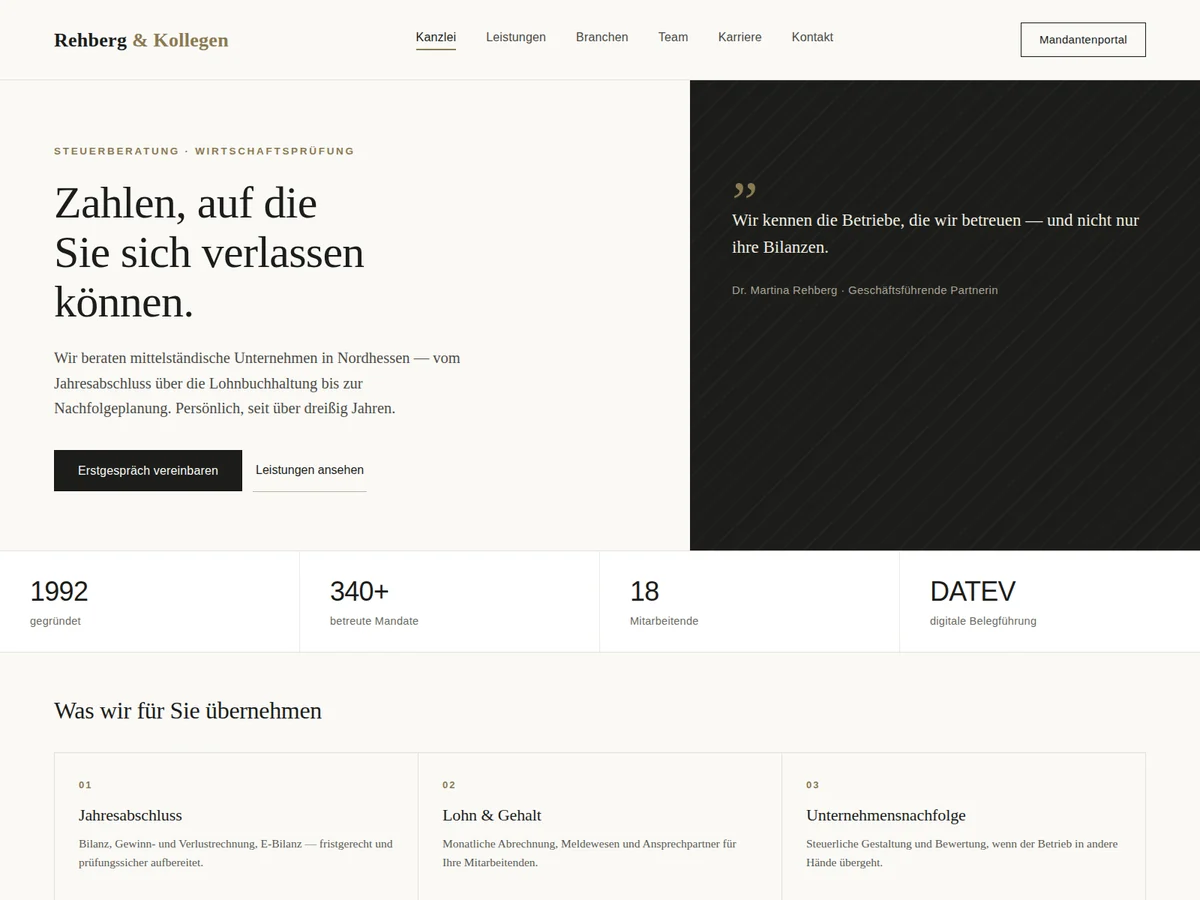
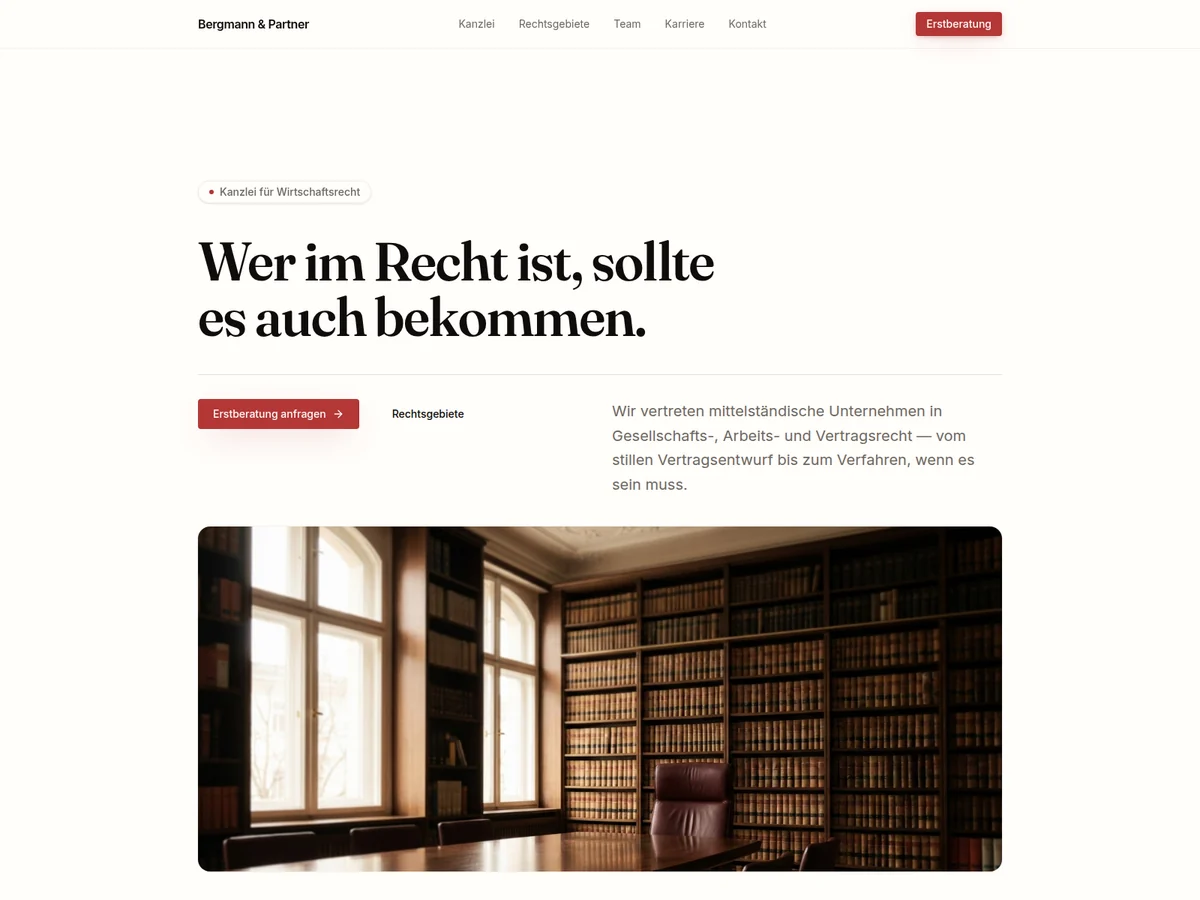
feat: Referenzen aus dem eigenen Baukasten statt handgemalt
Die drei Entwuerfe von vorhin waren handgeschriebenes HTML - eine
Nachahmung dessen, was wir verkaufen, statt das Produkt selbst. Jetzt
sind es Aufnahmen echter Seiten aus diesem Repository, gebaut aus
HeroEditorial, HeroFullWidth, Stats, ServiceCards, FeatureSplit,
ProcessSteps und CTA. Stats hatte bis eben null Verwendungen.

Drei Kunden, drei Looks aus config/theme.ts:

* Kanzlei in "editorial" - Fraunces, Bordeaux, Haarlinien
* Neubauquartier in "bold" - Sora, Violett, dunkel
* Kunstmuseum in "minimal" - monochrom, scharfe Kanten

Keiner davon ist "glass". Damit sieht keine Referenz aus wie unsere
eigene Seite, und wer die drei nebeneinander sieht, versteht ohne einen
Satz Erklaerung, dass derselbe Baukasten dahintersteht.

Die Fotografie kommt aus einer Bildgenerierung: Kanzleibibliothek,
Neubau zur blauen Stunde, Ausstellungssaal. Der Egress-Proxy dieser
Sitzung sperrt den Auslieferungs-Host, deshalb hat Louis die Dateien
selbst geholt und eingeworfen.

Dabei zwei Luecken im Baukasten gefunden:

Stats formatierte JEDE Zahl mit Tausendertrennung - aus dem
Gruendungsjahr 1987 wurde "1.987". "Seit wann es uns gibt" ist bei
deutschen Betrieben eine der haeufigsten Kennzahlen ueberhaupt, der
Baukasten konnte sie also gar nicht darstellen. Behoben ueber
format: "plain" an Stat und AnimatedNumber.

Nicht behoben, aber notiert: Die Header-Komponente liest fest aus
siteConfig und navigation. Fuer ein Kundenprojekt laesst sie sich nur
[…]

diff --git a/src/content/work.ts b/src/content/work.ts
@@ -2,6 +2,11 @@
 // src/content/, die Abschnitte in src/components/sections/ bleiben leer und
 // wiederverwendbar.
 //
+// Die drei Bilder sind Aufnahmen echter Seiten aus diesem Baukasten — gebaut
+// aus HeroEditorial, HeroFullWidth, Stats, ServiceCards, FeatureSplit und CTA,
+// je in einem anderen Look (editorial, bold, minimal). Erfunden sind nur die
+// Betriebe und ihre Inhalte.
+//
 // WICHTIG für spätere Änderungen: Die drei Bilder sind eigene Entwürfe, keine
 // Kundenprojekte. Die Kennzeichnung steht deshalb doppelt — im Untertitel des
 // Abschnitts UND als Bildunterschrift an jeder Kachel. Wer hier echte Projekte
@@ -22,23 +27,23 @@ export const work: {
     eyebrow: "Arbeiten",
     title: "So sieht das aus",
     subtitle:
-      "Drei Entwürfe aus unserer Feder — für ein Autohaus, eine Steuerkanzlei und ein Bauunternehmen. Noch keine Kundenprojekte: Wir sind jung, und erfundene Referenzen wären das Gegenteil dessen, wofür wir stehen. Sobald die ersten Websites live sind, stehen sie hier.",
+      "Drei Entwürfe aus unserem Baukasten — eine Kanzlei, ein Neubauquartier, ein Kunstmuseum. Dieselben Bausteine, drei völlig verschiedene Handschriften. Noch keine Kundenprojekte: Wir sind jung, und erfundene Referenzen wären das Gegenteil dessen, wofür wir stehen. Sobald die ersten Websites live sind, stehen sie hier.",
   },
   images: [
     {
-      src: "/images/showcase/autohaus.webp",
-      alt: "Entwurf einer Autohaus-Website: dunkelblaue Startseite mit Fahrzeugsuche und drei Fahrzeugkacheln",
-      caption: "Autohaus · Konzeptentwurf",
-    },
-    {
       src: "/images/showcase/kanzlei.webp",
-      alt: "Entwurf einer Kanzlei-Website: heller Serifensatz mit Zitat, Kennzahlen und Leistungsübersicht",
-      caption: "Steuerkanzlei · Konzeptentwurf",
+      alt: "Entwurf einer Kanzlei-Website: große Serifenüberschrift auf cremefarbenem Grund, darunter ein Foto der Kanzleibibliothek",
+      caption: "Kanzlei · Konzeptentwurf",
     },
     {
-      src: "/images/showcase/bau.webp",
-      alt: "Entwurf einer Bauunternehmen-Website: dunkle Startseite mit Kran, Kennzahlen und Projektreferenzen",
-      caption: "Bauunternehmen · Konzeptentwurf",
+      src: "/images/showcase/immobilien.webp",
+      alt: "Entwurf einer Website für ein Neubauquartier: das Gebäude zur blauen Stunde als vollflächiges Bild, der Text liegt darüber",
+      caption: "Immobilien · Konzeptentwurf",
+    },
+    {
+      src: "/images/showcase/museum.webp",
+      alt: "Entwurf einer Museums-Website: ein Ausstellungssaal füllt das Bild, der Titel der Ausstellung steht mittig darüber",
+      caption: "Kunstmuseum · Konzeptentwurf",
     },
   ],
   audience: {

diff --git a/src/components/motion/animated-number.tsx b/src/components/motion/animated-number.tsx
@@ -10,10 +10,27 @@ interface AnimatedNumberProps {
   prefix?: string;
   suffix?: string;
   locale?: string;
+  /**
+   * `"plain"` schaltet die Tausendertrennung ab — für Jahreszahlen.
+   * Ohne diese Möglichkeit wurde aus dem Gründungsjahr 1987 ein „1.987",
+   * und „seit wann es uns gibt" ist bei deutschen Betrieben eine der
+   * häufigsten Kennzahlen überhaupt.
+   */
+  format?: "number" | "plain";
   className?: string;
 }
 
 const DURATION_MS = 1200;
+
+// Ausserhalb der Komponente, damit die Funktion nicht bei jedem Rendern neu
+// entsteht — sonst verlangt die Hook-Regel sie zu Recht als Abhaengigkeit.
+function darstellen(
+  wert: number,
+  format: "number" | "plain",
+  locale: string,
+): string {
+  return format === "plain" ? String(wert) : wert.toLocaleString(locale);
+}
 
 // Count-up for stats (DESIGN.md §11). Server-renders the final value so the
 // number is correct without JavaScript; the count-up only runs client-side
@@ -25,6 +42,7 @@ export function AnimatedNumber({
   prefix = "",
   suffix = "",
   locale = "de-DE",
+  format = "number",
   className,
 }: AnimatedNumberProps) {
   const ref = useRef<HTMLSpanElement>(null);
@@ -40,16 +58,16 @@ export function AnimatedNumber({
     const tick = (now: number) => {
       const progress = Math.min((now - start) / DURATION_MS, 1);
       const eased = 1 - Math.pow(1 - progress, 3);
-      element.textContent = `${prefix}${Math.round(eased * value).toLocaleString(locale)}${suffix}`;
+      element.textContent = `${prefix}${darstellen(Math.round(eased * value), format, locale)}${suffix}`;
       if (progress < 1) frame = requestAnimationFrame(tick);
     };
     frame = requestAnimationFrame(tick);
     return () => cancelAnimationFrame(frame);
-  }, [isInView, reduceMotion, value, prefix, suffix, locale]);
+  }, [isInView, reduceMotion, value, prefix, suffix, locale, format]);
 
   return (
     <span ref={ref} className={cn("tabular-nums", className)}>
-      {`${prefix}${value.toLocaleString(locale)}${suffix}`}
+      {`${prefix}${darstellen(value, format, locale)}${suffix}`}
     </span>
   );
 }

diff --git a/src/components/sections/stats.tsx b/src/components/sections/stats.tsx
@@ -11,6 +11,8 @@ export interface Stat {
   label: string;
   prefix?: string;
   suffix?: string;
+  /** "plain" für Jahreszahlen — sonst wird aus 1987 ein „1.987". */
+  format?: "number" | "plain";
 }
 
 interface StatsProps {
@@ -35,6 +37,7 @@ export function Stats({ intro, items, background, className }: StatsProps) {
                     value={stat.value}
                     prefix={stat.prefix}
                     suffix={stat.suffix}
+                    format={stat.format}
                   />
                 </dd>
                 <dt className="mt-2 text-sm text-muted-foreground">
